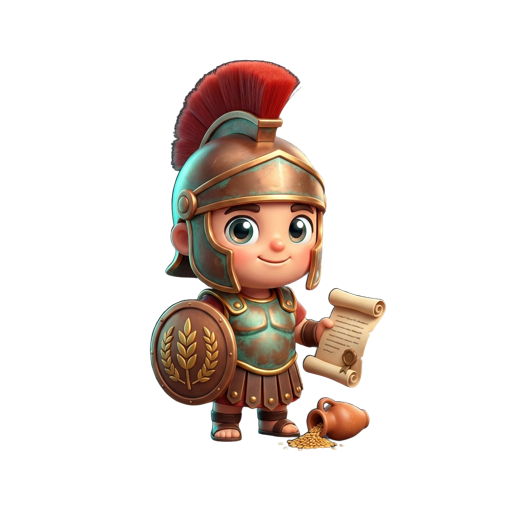
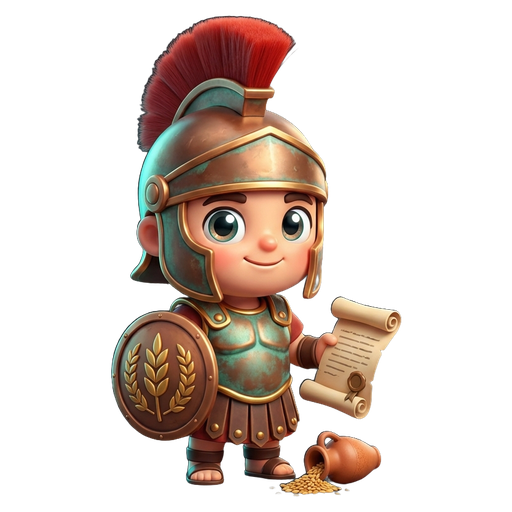
feat(site): a face in the tab, and a page that looks finished
Four things were wrong on the page that introduces the project, and three of
them were invisible until someone looked at it in a browser rather than at the
markdown.

The favicon was Material's default book, so the tab said "some documentation".
It is now the mascot's head — cropped to helmet and face, because the whole
figure at 32 px is mud and a red crest is not. Same image is the header logo,
plus an apple-touch icon and a real .ico.

The mascot itself was rendering small inside a mostly transparent square: the
background cut-out left a wide margin, so the PNG was 1024 px of which 475 were
character. Cropped to its alpha bounding box, re-squared with 3% padding, and
shown at logo size.

`:material-apple:` and friends were rendering as literal text — the emoji
extension Material needs for icon shortcodes was never configured. The download
cards said ":material-microsoft-windows: Windows" on a public page.

The palette was still the previous name's: customs-red permalinks, borrowed-blue
links, and a verdigris hero, which is what a page looks like when nobody owns
the palette. Accent and links are now the mascot's armour, in both schemes.

Also: equal-height download cards with their buttons aligned (Material's cards
are grid children of the container, not of the list — a rule aimed at the `ul`
does nothing, which is why the first attempt failed), the four steps as a 2×2
rather than a 3+1 orphan, a hairline under each section heading, and no edit
[…]

diff --git a/docs/stylesheets/extra.css b/docs/stylesheets/extra.css
@@ -16,16 +16,21 @@
   --dg-line: #232936;
 }
 
+/* Accent and links are verdigris, the mascot's armour. They were customs-red and
+ * a borrowed blue from the previous name: a permalink glyph and a link in three
+ * unrelated colours is what a page looks like when nobody owns the palette. */
 [data-md-color-scheme="slate"] {
   --md-primary-fg-color: var(--dg-ink);
-  --md-accent-fg-color: var(--dg-red);
+  --md-accent-fg-color: #5cbbae;
   --md-default-bg-color: var(--dg-ink);
   --md-code-bg-color: var(--dg-ink-soft);
-  --md-typeset-a-color: #7aa2f7;
+  --md-typeset-a-color: #5cbbae;
 }
 
 [data-md-color-scheme="default"] {
-  --md-accent-fg-color: var(--dg-red-dim);
+  --md-primary-fg-color: #1f6f68;
+  --md-accent-fg-color: #1f6f68;
+  --md-typeset-a-color: #1a5c56;
 }
 
 /* ── Hero ──────────────────────────────────────────────────────────────── */
@@ -329,4 +334,128 @@
 @media screen and (max-width: 44.98em) {
   .md-typeset .an-hero__title { font-size: 2.4rem; }
   .an-hero__mascot { width: 150px; }
+}
+
+
+/* ── Landing polish ─────────────────────────────────────────────────────────
+ *
+ * Material dims h1 on the slate scheme, which reads as "unfinished" on a page
+ * whose whole job is a first impression. The hero also earns more room than a
+ * documentation page: the mascot is the logo, so it is shown at logo size.
+ */
+
+.md-typeset .an-hero__title {
+  color: var(--md-default-fg-color);
+  font-size: 4.2rem;
+  margin: 0.4rem 0 0.5rem;
+}
+
+[data-md-color-scheme="slate"] .md-typeset .an-hero__title {
+  color: #fff;
+  text-shadow: 0 2px 30px rgba(92, 187, 174, 0.18);
+}
+
+.an-hero__mascot {
+  width: 280px;
+  max-width: 54vw;
+}
+
+.an-hero__tagline {
+  font-size: 1.35rem;
+  font-weight: 700;
+}
+
+.an-hero__sub {
+  font-size: 0.98rem;
+  max-width: 44rem;
+  line-height: 1.7;
+}
+
+/* Numbers should read as numbers: bigger, tighter, with the label quiet. */
+.an-stat {
+  min-width: 6.2rem;
+  padding: 0.5rem 0.9rem;
+  background: var(--md-code-bg-color);
+}
+
+.an-stat b {
+  font-size: 1.25rem;
+  font-weight: 700;
+}
+
+.an-cta {
+  margin-top: 0.4rem;
+  gap: 0.6rem;
+}
+
+.md-typeset .an-btn {
+  padding: 0.62rem 1.35rem;
+  font-size: 0.8rem;
+  border-radius: 4px;
+}
+
+/* A hairline under each section title, so a long page has a rhythm. */
+.md-typeset h2 {
+  border-bottom: 1px solid var(--md-default-fg-color--lightest);
+  padding-bottom: 0.35rem;
+  margin-top: 2.6rem;
+}
+
+/* The header logo is a character, not a glyph: give it room and no filter. */
+.md-header__button.md-logo img,
+.md-header__button.md-logo svg {
+  height: 1.6rem;
+  width: 1.6rem;
+}
+
+@media screen and (max-width: 44.98em) {
+  .md-typeset .an-hero__title { font-size: 2.7rem; }
+  .an-hero__mascot { width: 190px; }
+  .an-hero__tagline { font-size: 1.1rem; }
+}
+
+/* The platform glyphs on the download cards: large, in the accent, above the
+ * name rather than inline with it. */
+.md-typeset .an-downloads .twemoji {
+  display: block;
+  width: 2.1rem;
+  height: 2.1rem;
+  margin-bottom: 0.35rem;
+  fill: var(--an-accent);
+}
+
+/* Material's own rule is more specific, so match it and add the class: the
+ * cards must be equal-height flex columns or a two-line description drops one
+ * button below the others. */
+.md-typeset .grid.cards.an-downloads > ul > li,
+.md-typeset .grid.cards.an-steps > ul > li {
+  display: flex;
+  flex-direction: column;
+  height: 100%;
+  margin: 0;
+}
+
+/* The download button sits at the bottom of every card, so three cards of
+ * different text length still line up. */
+.md-typeset .grid.cards.an-downloads > ul > li > p:last-child {
+  margin-top: auto;
+  margin-bottom: 0;
+  padding-top: 0.6rem;
+}
+
+/* No "edit this page" pencil floating over a hero. */
+.md-typeset .an-hero ~ * .md-content__button,
+body[data-md-color-scheme] .md-content__button.md-icon:first-of-type:has(+ .an-hero) {
+  display: none;
+}
+
+/* Four steps read as a sequence, so they go 2×2 rather than leaving an orphan.
+ *
+ * The grid lives on the container: Material gives `.grid.cards > ul` a
+ * `display: contents`, so the list items are grid children of the div and any
+ * rule aimed at the `ul` does nothing at all. */
+@media screen and (min-width: 60em) {
+  .md-typeset .grid.an-steps {
+    grid-template-columns: repeat(2, 1fr);
+  }
 }

diff --git a/docs/index.md b/docs/index.md
@@ -2,6 +2,8 @@
 hide:
   - navigation
   - toc
+  - path
+  - footer
 ---
 
 <div class="an-hero" markdown="1">
